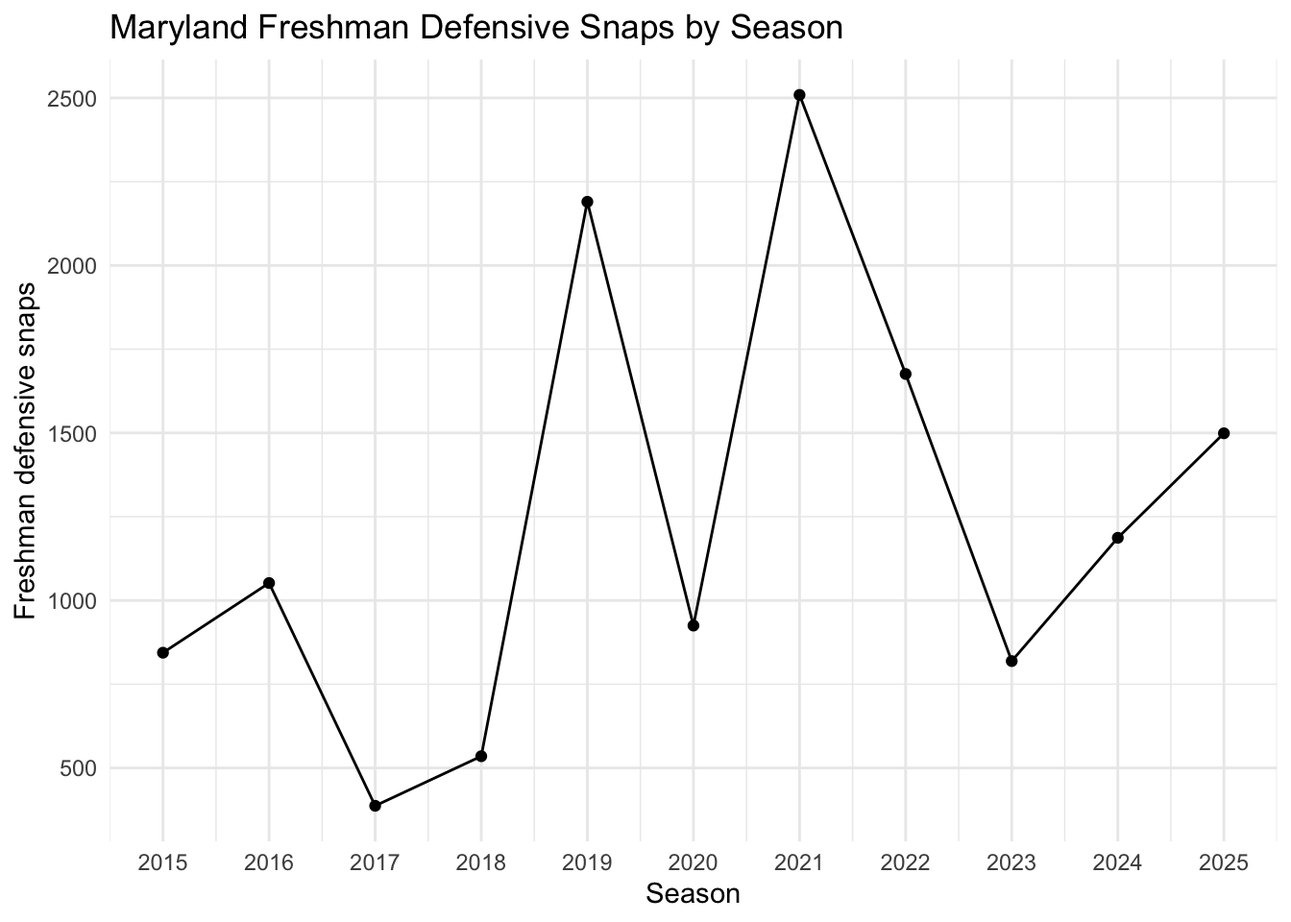
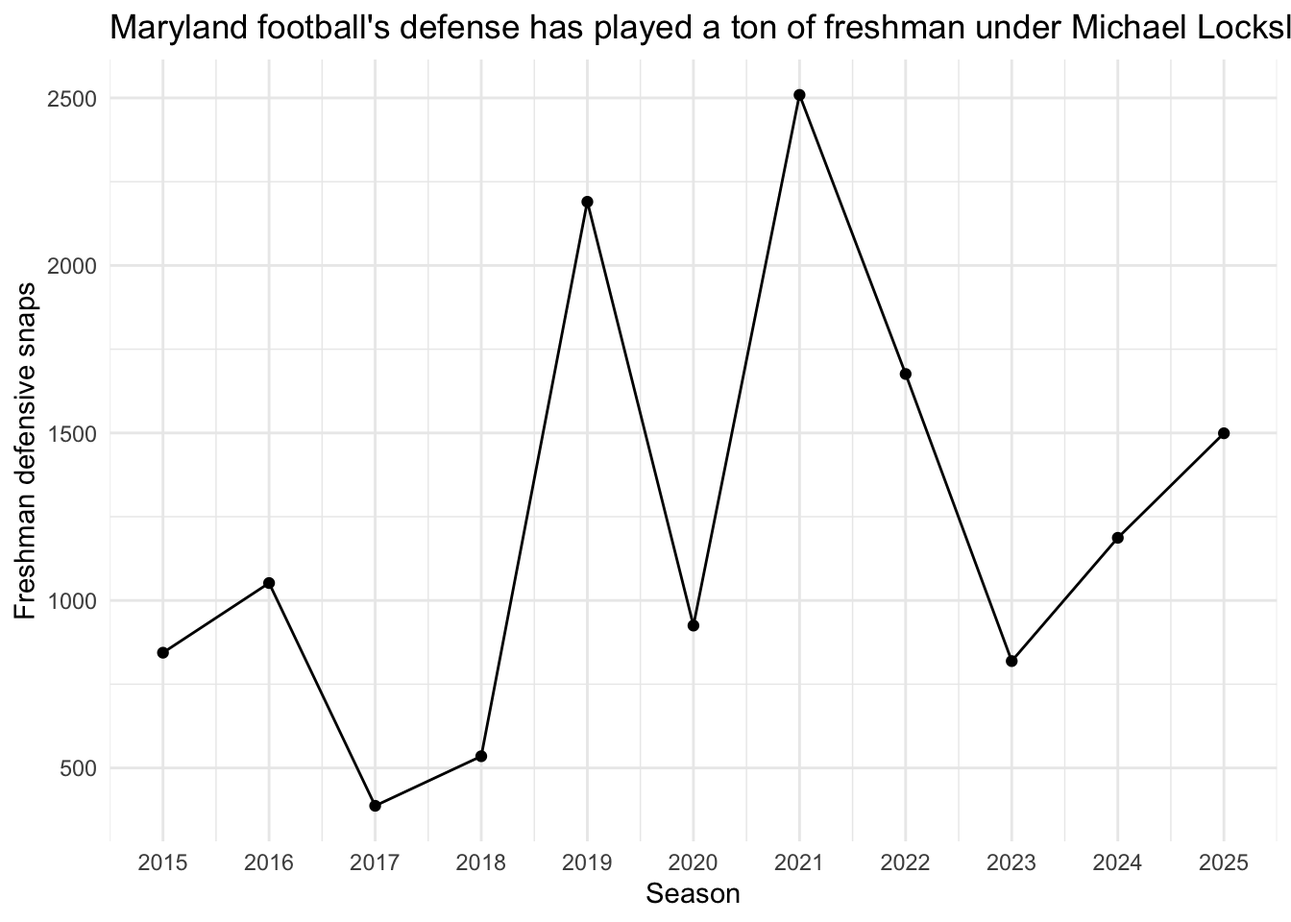
presentation

Changed region(s): [[0.1875, 0.0, 1.0, 0.0625]]

diff --git a/docs/posts/presentation/background2.html b/docs/posts/presentation/background2.html
@@ -345,13 +345,14 @@ dbl (54): targets, interception_touchdowns, draft_season, forced_fumbles, mi...
 <span id="cb21-8"><a href="#cb21-8" aria-hidden="true" tabindex="-1"></a>  <span class="at">.groups =</span> <span class="st">"drop"</span></span>
 <span id="cb21-9"><a href="#cb21-9" aria-hidden="true" tabindex="-1"></a>)</span></code></pre></div><button title="Copy to Clipboard" class="code-copy-button"><i class="bi"></i></button></div>
 </div>
+<p>##Maryland’s typically a young defense. But since Michael Locksley’s took over, there’s been a drastic shift over year-to-year of wherether the Terps are playing freshman or not. They’ve played a ton in some years (2019,2021 and 2025) and barely played some in other years. I think this just shows the overall instablity during the Locksley tenure. There’s just a lack of cohesion and overall plan on how many freshman they’re going to play. They’ve tried to be more veteran heavy in recent years, as you can see, but then this season, they relied on a ton of freshman this year. Sidney Stewart, Zahir Mathis and Messiah Dellhome all played signifcant snaps and were expected to be the best players on the defense.</p>
 <div class="cell">
 <div class="code-copy-outer-scaffold"><div class="sourceCode cell-code" id="cb22"><pre class="sourceCode r code-with-copy"><code class="sourceCode r"><span id="cb22-1"><a href="#cb22-1" aria-hidden="true" tabindex="-1"></a><span class="fu">ggplot</span>(md_freshman_by_year, <span class="fu">aes</span>(<span class="at">x =</span> season_year, <span class="at">y =</span> freshman_snaps)) <span class="sc">+</span></span>
 <span id="cb22-2"><a href="#cb22-2" aria-hidden="true" tabindex="-1"></a>  <span class="fu">geom_line</span>() <span class="sc">+</span></span>
 <span id="cb22-3"><a href="#cb22-3" aria-hidden="true" tabindex="-1"></a>  <span class="fu">geom_point</span>() <span class="sc">+</span></span>
 <span id="cb22-4"><a href="#cb22-4" aria-hidden="true" tabindex="-1"></a>  <span class="fu">scale_x_continuous</span>(<span class="at">breaks =</span> <span class="dv">2015</span><span class="sc">:</span><span class="dv">2025</span>) <span class="sc">+</span></span>
 <span id="cb22-5"><a href="#cb22-5" aria-hidden="true" tabindex="-1"></a>  <span class="fu">labs</span>(</span>
-<span id="cb22-6"><a href="#cb22-6" aria-hidden="true" tabindex="-1"></a>    <span class="at">title =</span> <span class="st">"Maryland Freshman Defensive Snaps by Season"</span>,</span>
+<span id="cb22-6"><a href="#cb22-6" aria-hidden="true" tabindex="-1"></a>    <span class="at">title =</span> <span class="st">"Maryland football's defense has played a ton of freshman under Michael Locksley"</span>,</span>
 <span id="cb22-7"><a href="#cb22-7" aria-hidden="true" tabindex="-1"></a>    <span class="at">x =</span> <span class="st">"Season"</span>,</span>
 <span id="cb22-8"><a href="#cb22-8" aria-hidden="true" tabindex="-1"></a>    <span class="at">y =</span> <span class="st">"Freshman defensive snaps"</span></span>
 <span id="cb22-9"><a href="#cb22-9" aria-hidden="true" tabindex="-1"></a>  ) <span class="sc">+</span></span>
@@ -364,8 +365,9 @@ dbl (54): targets, interception_touchdowns, draft_season, forced_fumbles, mi...
 </div>
 </div>
 </div>
-<p>##The biggest issue I’m going to have trying to find a comparison point. I don’t really want to do this for every Big Ten team, so I think I’d just have to find one team that I could maybe stack MD up against. So that’ll be someting I can talk over with you Derek</p>
-<p>###One thing I decided I’m going to do is use articles to find who some of the youngest defenses are over the past decade in college football and scrape their data from PFF to compare them. That way we can see how the Terps stack up compared to other college football teams who have been really young over the years.</p>
+<section id="section" class="level2">
+<h2 class="anchored" data-anchor-id="section"></h2>
+</section>
 <section id="a-viz-i-have-is-looking-at-a-line-chart-but-i-also-think-a-waffle-chart-could-be-really-good-to-show-the-total-number-of-freshman-snaps-weve-played-over-the-past-decade-and-then-see-which-seasons-have-made-up-the-most-of-them.-struggling-for-the-waffle-chart-tried-putting-into-ai-for-help-but-it-wasnt-working" class="level2">
 <h2 class="anchored" data-anchor-id="a-viz-i-have-is-looking-at-a-line-chart-but-i-also-think-a-waffle-chart-could-be-really-good-to-show-the-total-number-of-freshman-snaps-weve-played-over-the-past-decade-and-then-see-which-seasons-have-made-up-the-most-of-them.-struggling-for-the-waffle-chart-tried-putting-into-ai-for-help-but-it-wasnt-working">A viz I have is looking at a line chart, but I also think a waffle chart could be really good to show the total number of freshman snaps we’ve played over the past decade and then see which seasons have made up the most of them. Struggling for the waffle chart, tried putting into AI for help, but it wasn’t working</h2>
 <div class="cell">
@@ -392,6 +394,229 @@ dbl (54): targets, interception_touchdowns, draft_season, forced_fumbles, mi...
 </div>
 </div>
 </div>
+<div class="cell">
+<div class="code-copy-outer-scaffold"><div class="sourceCode cell-code" id="cb25"><pre class="sourceCode r code-with-copy"><code class="sourceCode r"><span id="cb25-1"><a href="#cb25-1" aria-hidden="true" tabindex="-1"></a>files <span class="ot">&lt;-</span> <span class="fu">c</span>(</span>
+<span id="cb25-2"><a href="#cb25-2" aria-hidden="true" tabindex="-1"></a>  <span class="st">"bostoncollege2015.csv"</span>, <span class="st">"alabama2016.csv"</span>, <span class="st">"alabama2017.csv"</span>,</span>
+<span id="cb25-3"><a href="#cb25-3" aria-hidden="true" tabindex="-1"></a>  <span class="st">"missst2018.csv"</span>, <span class="st">"osu2019.csv"</span>, <span class="st">"marshall2020.csv"</span>,</span>
+<span id="cb25-4"><a href="#cb25-4" aria-hidden="true" tabindex="-1"></a>  <span class="st">"wisconsin2021.csv"</span>, <span class="st">"airforce2022.csv"</span>, <span class="st">"michigan2023.csv"</span>,</span>
+<span id="cb25-5"><a href="#cb25-5" aria-hidden="true" tabindex="-1"></a>  <span class="st">"indiana2024.csv"</span>, <span class="st">"osu2025.csv"</span></span>
+<span id="cb25-6"><a href="#cb25-6" aria-hidden="true" tabindex="-1"></a>)</span>
+<span id="cb25-7"><a href="#cb25-7" aria-hidden="true" tabindex="-1"></a></span>
+<span id="cb25-8"><a href="#cb25-8" aria-hidden="true" tabindex="-1"></a><span class="fu">library</span>(tidyverse)</span>
+<span id="cb25-9"><a href="#cb25-9" aria-hidden="true" tabindex="-1"></a></span>
+<span id="cb25-10"><a href="#cb25-10" aria-hidden="true" tabindex="-1"></a><span class="cf">for</span> (f <span class="cf">in</span> files) {</span>
+<span id="cb25-11"><a href="#cb25-11" aria-hidden="true" tabindex="-1"></a>  name <span class="ot">&lt;-</span> tools<span class="sc">::</span><span class="fu">file_path_sans_ext</span>(f)</span>
+<span id="cb25-12"><a href="#cb25-12" aria-hidden="true" tabindex="-1"></a>  <span class="fu">assign</span>(name, <span class="fu">read_csv</span>(f))</span>
+<span id="cb25-13"><a href="#cb25-13" aria-hidden="true" tabindex="-1"></a>}</span></code></pre></div><button title="Copy to Clipboard" class="code-copy-button"><i class="bi"></i></button></div>
+<div class="cell-output cell-output-stderr">
+<pre><code>Rows: 34 Columns: 59
+── Column specification ────────────────────────────────────────────────────────
+Delimiter: ","
+chr  (5): team_name, jersey_number, team, position, player
+dbl (54): targets, interception_touchdowns, draft_season, forced_fumbles, mi...
+
+ℹ Use `spec()` to retrieve the full column specification for this data.
+ℹ Specify the column types or set `show_col_types = FALSE` to quiet this message.
+Rows: 41 Columns: 59
+── Column specification ────────────────────────────────────────────────────────
+Delimiter: ","
+chr  (5): team_name, jersey_number, team, position, player
+dbl (54): targets, interception_touchdowns, draft_season, forced_fumbles, mi...
+
+ℹ Use `spec()` to retrieve the full column specification for this data.
+ℹ Specify the column types or set `show_col_types = FALSE` to quiet this message.
+Rows: 44 Columns: 59
+── Column specification ────────────────────────────────────────────────────────
+Delimiter: ","
+chr  (5): team_name, jersey_number, team, position, player
+dbl (54): targets, interception_touchdowns, draft_season, forced_fumbles, mi...
+
+ℹ Use `spec()` to retrieve the full column specification for this data.
+ℹ Specify the column types or set `show_col_types = FALSE` to quiet this message.
+Rows: 50 Columns: 59
+── Column specification ────────────────────────────────────────────────────────
+Delimiter: ","
+chr  (5): team_name, jersey_number, team, position, player
+dbl (54): targets, interception_touchdowns, draft_season, forced_fumbles, mi...
+
+ℹ Use `spec()` to retrieve the full column specification for this data.
+ℹ Specify the column types or set `show_col_types = FALSE` to quiet this message.
+Rows: 57 Columns: 59
+── Column specification ────────────────────────────────────────────────────────
+Delimiter: ","
+chr  (5): team_name, jersey_number, team, position, player
+dbl (54): targets, interception_touchdowns, draft_season, forced_fumbles, mi...
+
+ℹ Use `spec()` to retrieve the full column specification for this data.
+ℹ Specify the column types or set `show_col_types = FALSE` to quiet this message.
+Rows: 32 Columns: 59
+── Column specification ────────────────────────────────────────────────────────
+Delimiter: ","
+chr  (5): team_name, jersey_number, team, position, player
+dbl (54): targets, interception_touchdowns, draft_season, forced_fumbles, mi...
+
+ℹ Use `spec()` to retrieve the full column specification for this data.
+ℹ Specify the column types or set `show_col_types = FALSE` to quiet this message.
+Rows: 37 Columns: 59
+── Column specification ────────────────────────────────────────────────────────
+Delimiter: ","
+chr  (5): team_name, jersey_number, team, position, player
+dbl (54): targets, interception_touchdowns, draft_season, forced_fumbles, mi...
+
+ℹ Use `spec()` to retrieve the full column specification for this data.
+ℹ Specify the column types or set `show_col_types = FALSE` to quiet this message.
+Rows: 41 Columns: 59
+── Column specification ────────────────────────────────────────────────────────
+Delimiter: ","
+chr  (5): team_name, jersey_number, team, position, player
+dbl (54): targets, interception_touchdowns, draft_season, forced_fumbles, mi...
+
+ℹ Use `spec()` to retrieve the full column specification for this data.
+ℹ Specify the column types or set `show_col_types = FALSE` to quiet this message.
+Rows: 44 Columns: 59
+── Column specification ────────────────────────────────────────────────────────
+Delimiter: ","
+chr  (5): team_name, jersey_number, team, position, player
+dbl (54): targets, interception_touchdowns, draft_season, forced_fumbles, mi...
+
+ℹ Use `spec()` to retrieve the full column specification for this data.
+ℹ Specify the column types or set `show_col_types = FALSE` to quiet this message.
+Rows: 40 Columns: 59
+── Column specification ────────────────────────────────────────────────────────
+Delimiter: ","
+chr  (5): team_name, jersey_number, team, position, player
+dbl (54): targets, interception_touchdowns, draft_season, forced_fumbles, mi...
+
+ℹ Use `spec()` to retrieve the full column specification for this data.
+ℹ Specify the column types or set `show_col_types = FALSE` to quiet this message.
+Rows: 41 Columns: 59
+── Column specification ────────────────────────────────────────────────────────
+Delimiter: ","
+chr  (5): team_name, jersey_number, team, position, player
+dbl (53): targets, interception_touchdowns, forced_fumbles, missed_tackles, ...
+lgl  (1): draft_season
+
+ℹ Use `spec()` to retrieve the full column specification for this data.
+ℹ Specify the column types or set `show_col_types = FALSE` to quiet this message.</code></pre>
+</div>
+</div>
+<div class="cell">
+<div class="code-copy-outer-scaffold"><div class="sourceCode cell-code" id="cb27"><pre class="sourceCode r code-with-copy"><code class="sourceCode r"><span id="cb27-1"><a href="#cb27-1" aria-hidden="true" tabindex="-1"></a>bostoncollege2015 <span class="ot">&lt;-</span> bostoncollege2015 <span class="sc">|&gt;</span></span>
+<span id="cb27-2"><a href="#cb27-2" aria-hidden="true" tabindex="-1"></a>  <span class="fu">filter</span>(eligible_season <span class="sc">==</span> <span class="dv">2019</span>)</span></code></pre></div><button title="Copy to Clipboard" class="code-copy-button"><i class="bi"></i></button></div>
+</div>
+<div class="cell">
+<div class="code-copy-outer-scaffold"><div class="sourceCode cell-code" id="cb28"><pre class="sourceCode r code-with-copy"><code class="sourceCode r"><span id="cb28-1"><a href="#cb28-1" aria-hidden="true" tabindex="-1"></a>alabama2016 <span class="ot">&lt;-</span> alabama2016 <span class="sc">|&gt;</span></span>
+<span id="cb28-2"><a href="#cb28-2" aria-hidden="true" tabindex="-1"></a>  <span class="fu">filter</span>(eligible_season <span class="sc">==</span> <span class="dv">2020</span>)</span></code></pre></div><button title="Copy to Clipboard" class="code-copy-button"><i class="bi"></i></button></div>
+</div>
+<div class="cell">
+<div class="code-copy-outer-scaffold"><div class="sourceCode cell-code" id="cb29"><pre class="sourceCode r code-with-copy"><code class="sourceCode r"><span id="cb29-1"><a href="#cb29-1" aria-hidden="true" tabindex="-1"></a>alabama2017 <span class="ot">&lt;-</span> alabama2017 <span class="sc">|&gt;</span></span>
+<span id="cb29-2"><a href="#cb29-2" aria-hidden="true" tabindex="-1"></a>  <span class="fu">filter</span>(eligible_season <span class="sc">==</span> <span class="dv">2021</span>)</span></code></pre></div><button title="Copy to Clipboard" class="code-copy-button"><i class="bi"></i></button></div>
+</div>
+<div class="cell">
+<div class="code-copy-outer-scaffold"><div class="sourceCode cell-code" id="cb30"><pre class="sourceCode r code-with-copy"><code class="sourceCode r"><span id="cb30-1"><a href="#cb30-1" aria-hidden="true" tabindex="-1"></a>missst2018 <span class="ot">&lt;-</span> missst2018 <span class="sc">|&gt;</span></span>
+<span id="cb30-2"><a href="#cb30-2" aria-hidden="true" tabindex="-1"></a>  <span class="fu">filter</span>(eligible_season <span class="sc">==</span> <span class="dv">2022</span>)</span></code></pre></div><button title="Copy to Clipboard" class="code-copy-button"><i class="bi"></i></button></div>
+</div>
+<div class="cell">
+<div class="code-copy-outer-scaffold"><div class="sourceCode cell-code" id="cb31"><pre class="sourceCode r code-with-copy"><code class="sourceCode r"><span id="cb31-1"><a href="#cb31-1" aria-hidden="true" tabindex="-1"></a>osu2019 <span class="ot">&lt;-</span> osu2019 <span class="sc">|&gt;</span></span>
+<span id="cb31-2"><a href="#cb31-2" aria-hidden="true" tabindex="-1"></a>  <span class="fu">filter</span>(eligible_season <span class="sc">==</span> <span class="dv">2023</span>)</span></code></pre></div><button title="Copy to Clipboard" class="code-copy-button"><i class="bi"></i></button></div>
+</div>
+<div class="cell">
+<div class="code-copy-outer-scaffold"><div class="sourceCode cell-code" id="cb32"><pre class="sourceCode r code-with-copy"><code class="sourceCode r"><span id="cb32-1"><a href="#cb32-1" aria-hidden="true" tabindex="-1"></a>marshall2020 <span class="ot">&lt;-</span> marshall2020 <span class="sc">|&gt;</span></span>
+<span id="cb32-2"><a href="#cb32-2" aria-hidden="true" tabindex="-1"></a>  <span class="fu">filter</span>(eligible_season <span class="sc">==</span> <span class="dv">2024</span>)</span></code></pre></div><button title="Copy to Clipboard" class="code-copy-button"><i class="bi"></i></button></div>
+</div>
+<div class="cell">
+<div class="code-copy-outer-scaffold"><div class="sourceCode cell-code" id="cb33"><pre class="sourceCode r code-with-copy"><code class="sourceCode r"><span id="cb33-1"><a href="#cb33-1" aria-hidden="true" tabindex="-1"></a>wisconsin2021 <span class="ot">&lt;-</span> wisconsin2021 <span class="sc">|&gt;</span></span>
+<span id="cb33-2"><a href="#cb33-2" aria-hidden="true" tabindex="-1"></a>  <span class="fu">filter</span>(eligible_season <span class="sc">==</span> <span class="dv">2025</span>)</span></code></pre></div><button title="Copy to Clipboard" class="code-copy-button"><i class="bi"></i></button></div>
+</div>
+<div class="cell">
+<div class="code-copy-outer-scaffold"><div class="sourceCode cell-code" id="cb34"><pre class="sourceCode r code-with-copy"><code class="sourceCode r"><span id="cb34-1"><a href="#cb34-1" aria-hidden="true" tabindex="-1"></a>airforce2022 <span class="ot">&lt;-</span> airforce2022 <span class="sc">|&gt;</span></span>
+<span id="cb34-2"><a href="#cb34-2" aria-hidden="true" tabindex="-1"></a>  <span class="fu">filter</span>(eligible_season <span class="sc">==</span> <span class="dv">2026</span>)</span></code></pre></div><button title="Copy to Clipboard" class="code-copy-button"><i class="bi"></i></button></div>
+</div>
+<div class="cell">
+<div class="code-copy-outer-scaffold"><div class="sourceCode cell-code" id="cb35"><pre class="sourceCode r code-with-copy"><code class="sourceCode r"><span id="cb35-1"><a href="#cb35-1" aria-hidden="true" tabindex="-1"></a>michigan2023 <span class="ot">&lt;-</span> michigan2023 <span class="sc">|&gt;</span></span>
+<span id="cb35-2"><a href="#cb35-2" aria-hidden="true" tabindex="-1"></a>  <span class="fu">filter</span>(eligible_season <span class="sc">==</span> <span class="dv">2027</span>)</span></code></pre></div><button title="Copy to Clipboard" class="code-copy-button"><i class="bi"></i></button></div>
+</div>
+<div class="cell">
+<div class="code-copy-outer-scaffold"><div class="sourceCode cell-code" id="cb36"><pre class="sourceCode r code-with-copy"><code class="sourceCode r"><span id="cb36-1"><a href="#cb36-1" aria-hidden="true" tabindex="-1"></a>indiana2024 <span class="ot">&lt;-</span> indiana2024 <span class="sc">|&gt;</span></span>
+<span id="cb36-2"><a href="#cb36-2" aria-hidden="true" tabindex="-1"></a>  <span class="fu">filter</span>(eligible_season <span class="sc">==</span> <span class="dv">2028</span>)</span></code></pre></div><button title="Copy to Clipboard" class="code-copy-button"><i class="bi"></i></button></div>
+</div>
+<div class="cell">
+<div class="code-copy-outer-scaffold"><div class="sourceCode cell-code" id="cb37"><pre class="sourceCode r code-with-copy"><code class="sourceCode r"><span id="cb37-1"><a href="#cb37-1" aria-hidden="true" tabindex="-1"></a>osu2025 <span class="ot">&lt;-</span> osu2025 <span class="sc">|&gt;</span></span>
+<span id="cb37-2"><a href="#cb37-2" aria-hidden="true" tabindex="-1"></a>  <span class="fu">filter</span>(eligible_season <span class="sc">==</span> <span class="dv">2029</span>)</span></code></pre></div><button title="Copy to Clipboard" class="code-copy-button"><i class="bi"></i></button></div>
+</div>
+<div class="cell">
+<div class="code-copy-outer-scaffold"><div class="sourceCode cell-code" id="cb38"><pre class="sourceCode r code-with-copy"><code class="sourceCode r"><span id="cb38-1"><a href="#cb38-1" aria-hidden="true" tabindex="-1"></a><span class="fu">library</span>(dplyr)</span>
+<span id="cb38-2"><a href="#cb38-2" aria-hidden="true" tabindex="-1"></a><span class="fu">library</span>(ggplot2)</span>
+<span id="cb38-3"><a href="#cb38-3" aria-hidden="true" tabindex="-1"></a><span class="fu">library</span>(tibble)</span>
+<span id="cb38-4"><a href="#cb38-4" aria-hidden="true" tabindex="-1"></a></span>
+<span id="cb38-5"><a href="#cb38-5" aria-hidden="true" tabindex="-1"></a><span class="co"># Years and corresponding opponents</span></span>
+<span id="cb38-6"><a href="#cb38-6" aria-hidden="true" tabindex="-1"></a>years <span class="ot">&lt;-</span> <span class="dv">2015</span><span class="sc">:</span><span class="dv">2025</span></span>
+<span id="cb38-7"><a href="#cb38-7" aria-hidden="true" tabindex="-1"></a>opponents <span class="ot">&lt;-</span> <span class="fu">c</span>(</span>
+<span id="cb38-8"><a href="#cb38-8" aria-hidden="true" tabindex="-1"></a>  <span class="st">"bostoncollege"</span>,  <span class="co"># 2015</span></span>
+<span id="cb38-9"><a href="#cb38-9" aria-hidden="true" tabindex="-1"></a>  <span class="st">"alabama"</span>,        <span class="co"># 2016</span></span>
+<span id="cb38-10"><a href="#cb38-10" aria-hidden="true" tabindex="-1"></a>  <span class="st">"alabama"</span>,        <span class="co"># 2017</span></span>
+<span id="cb38-11"><a href="#cb38-11" aria-hidden="true" tabindex="-1"></a>  <span class="st">"missst"</span>,         <span class="co"># 2018</span></span>
+<span id="cb38-12"><a href="#cb38-12" aria-hidden="true" tabindex="-1"></a>  <span class="st">"osu"</span>,            <span class="co"># 2019</span></span>
+<span id="cb38-13"><a href="#cb38-13" aria-hidden="true" tabindex="-1"></a>  <span class="st">"marshall"</span>,       <span class="co"># 2020</span></span>
+<span id="cb38-14"><a href="#cb38-14" aria-hidden="true" tabindex="-1"></a>  <span class="st">"wisconsin"</span>,      <span class="co"># 2021</span></span>
+<span id="cb38-15"><a href="#cb38-15" aria-hidden="true" tabindex="-1"></a>  <span class="st">"airforce"</span>,       <span class="co"># 2022</span></span>
+<span id="cb38-16"><a href="#cb38-16" aria-hidden="true" tabindex="-1"></a>  <span class="st">"michigan"</span>,       <span class="co"># 2023</span></span>
+<span id="cb38-17"><a href="#cb38-17" aria-hidden="true" tabindex="-1"></a>  <span class="st">"indiana"</span>,        <span class="co"># 2024</span></span>
+<span id="cb38-18"><a href="#cb38-18" aria-hidden="true" tabindex="-1"></a>  <span class="st">"osu"</span>             <span class="co"># 2025</span></span>
+<span id="cb38-19"><a href="#cb38-19" aria-hidden="true" tabindex="-1"></a>)</span>
+<span id="cb38-20"><a href="#cb38-20" aria-hidden="true" tabindex="-1"></a></span>
+<span id="cb38-21"><a href="#cb38-21" aria-hidden="true" tabindex="-1"></a>summary_list <span class="ot">&lt;-</span> <span class="fu">list</span>()</span>
+<span id="cb38-22"><a href="#cb38-22" aria-hidden="true" tabindex="-1"></a></span>
+<span id="cb38-23"><a href="#cb38-23" aria-hidden="true" tabindex="-1"></a><span class="cf">for</span> (i <span class="cf">in</span> <span class="fu">seq_along</span>(years)) {</span>
+<span id="cb38-24"><a href="#cb38-24" aria-hidden="true" tabindex="-1"></a>  y   <span class="ot">&lt;-</span> years[i]</span>
+<span id="cb38-25"><a href="#cb38-25" aria-hidden="true" tabindex="-1"></a>  opp <span class="ot">&lt;-</span> opponents[i]</span>
+<span id="cb38-26"><a href="#cb38-26" aria-hidden="true" tabindex="-1"></a>  </span>
+<span id="cb38-27"><a href="#cb38-27" aria-hidden="true" tabindex="-1"></a>  md_df  <span class="ot">&lt;-</span> <span class="fu">get</span>(<span class="fu">paste0</span>(<span class="st">"md"</span>, y))</span>
+<span id="cb38-28"><a href="#cb38-28" aria-hidden="true" tabindex="-1"></a>  opp_df <span class="ot">&lt;-</span> <span class="fu">get</span>(<span class="fu">paste0</span>(opp, y))</span>
+<span id="cb38-29"><a href="#cb38-29" aria-hidden="true" tabindex="-1"></a>  </span>
+<span id="cb38-30"><a href="#cb38-30" aria-hidden="true" tabindex="-1"></a>  summary_list[[i]] <span class="ot">&lt;-</span> <span class="fu">tibble</span>(</span>
+<span id="cb38-31"><a href="#cb38-31" aria-hidden="true" tabindex="-1"></a>    <span class="at">year =</span> <span class="fu">factor</span>(y),</span>
+<span id="cb38-32"><a href="#cb38-32" aria-hidden="true" tabindex="-1"></a>    <span class="at">team =</span> <span class="fu">c</span>(<span class="st">"Maryland"</span>, opp),</span>
+<span id="cb38-33"><a href="#cb38-33" aria-hidden="true" tabindex="-1"></a>    <span class="at">value =</span> <span class="fu">c</span>(</span>
+<span id="cb38-34"><a href="#cb38-34" aria-hidden="true" tabindex="-1"></a>      <span class="fu">mean</span>(md_df<span class="sc">$</span>snap_counts_defense,  <span class="at">na.rm =</span> <span class="cn">TRUE</span>),</span>
+<span id="cb38-35"><a href="#cb38-35" aria-hidden="true" tabindex="-1"></a>      <span class="fu">mean</span>(opp_df<span class="sc">$</span>snap_counts_defense, <span class="at">na.rm =</span> <span class="cn">TRUE</span>)</span>
+<span id="cb38-36"><a href="#cb38-36" aria-hidden="true" tabindex="-1"></a>    )</span>
+<span id="cb38-37"><a href="#cb38-37" aria-hidden="true" tabindex="-1"></a>  )</span>
+<span id="cb38-38"><a href="#cb38-38" aria-hidden="true" tabindex="-1"></a>}</span>
+<span id="cb38-39"><a href="#cb38-39" aria-hidden="true" tabindex="-1"></a></span>
+<span id="cb38-40"><a href="#cb38-40" aria-hidden="true" tabindex="-1"></a>summary <span class="ot">&lt;-</span> <span class="fu">bind_rows</span>(summary_list)</span>
+<span id="cb38-41"><a href="#cb38-41" aria-hidden="true" tabindex="-1"></a></span>
+<span id="cb38-42"><a href="#cb38-42" aria-hidden="true" tabindex="-1"></a><span class="co"># Set custom colors: Maryland red, all others gray</span></span>
+<span id="cb38-43"><a href="#cb38-43" aria-hidden="true" tabindex="-1"></a>summary<span class="sc">$</span>color <span class="ot">&lt;-</span> <span class="fu">ifelse</span>(summary<span class="sc">$</span>team <span class="sc">==</span> <span class="st">"Maryland"</span>, <span class="st">"Maryland"</span>, <span class="st">"Opponent"</span>)</span>
+<span id="cb38-44"><a href="#cb38-44" aria-hidden="true" tabindex="-1"></a></span>
+<span id="cb38-45"><a href="#cb38-45" aria-hidden="true" tabindex="-1"></a><span class="fu">ggplot</span>(summary, <span class="fu">aes</span>(<span class="at">x =</span> year, <span class="at">y =</span> value, <span class="at">fill =</span> color)) <span class="sc">+</span></span>
+<span id="cb38-46"><a href="#cb38-46" aria-hidden="true" tabindex="-1"></a>  <span class="fu">geom_col</span>(<span class="at">position =</span> <span class="fu">position_dodge</span>(<span class="at">width =</span> <span class="fl">0.8</span>), <span class="at">width =</span> <span class="fl">0.7</span>) <span class="sc">+</span></span>
+<span id="cb38-47"><a href="#cb38-47" aria-hidden="true" tabindex="-1"></a>  <span class="fu">scale_fill_manual</span>(</span>
+<span id="cb38-48"><a href="#cb38-48" aria-hidden="true" tabindex="-1"></a>    <span class="at">values =</span> <span class="fu">c</span>(</span>
+<span id="cb38-49"><a href="#cb38-49" aria-hidden="true" tabindex="-1"></a>      <span class="st">"Maryland"</span> <span class="ot">=</span> <span class="st">"red"</span>,</span>
+<span id="cb38-50"><a href="#cb38-50" aria-hidden="true" tabindex="-1"></a>      <span class="st">"Opponent"</span> <span class="ot">=</span> <span class="st">"gray80"</span></span>
+<span id="cb38-51"><a href="#cb38-51" aria-hidden="true" tabindex="-1"></a>    )</span>
+<span id="cb38-52"><a href="#cb38-52" aria-hidden="true" tabindex="-1"></a>  ) <span class="sc">+</span></span>
+<span id="cb38-53"><a href="#cb38-53" aria-hidden="true" tabindex="-1"></a>  <span class="fu">labs</span>(</span>
+<span id="cb38-54"><a href="#cb38-54" aria-hidden="true" tabindex="-1"></a>    <span class="at">x =</span> <span class="st">"Season"</span>,</span>
+<span id="cb38-55"><a href="#cb38-55" aria-hidden="true" tabindex="-1"></a>    <span class="at">y =</span> <span class="st">"Freshman Defensive Snap Count"</span>,</span>
+<span id="cb38-56"><a href="#cb38-56" aria-hidden="true" tabindex="-1"></a>    <span class="at">title =</span> <span class="st">"Maryland's defense typically plays way more freshman than the No. 1 defense in the country"</span>,</span>
+<span id="cb38-57"><a href="#cb38-57" aria-hidden="true" tabindex="-1"></a>    <span class="at">fill =</span> <span class="st">""</span></span>
+<span id="cb38-58"><a href="#cb38-58" aria-hidden="true" tabindex="-1"></a>  ) <span class="sc">+</span></span>
+<span id="cb38-59"><a href="#cb38-59" aria-hidden="true" tabindex="-1"></a>  <span class="fu">theme_minimal</span>() <span class="sc">+</span></span>
+<span id="cb38-60"><a href="#cb38-60" aria-hidden="true" tabindex="-1"></a>  <span class="fu">theme</span>(</span>
+<span id="cb38-61"><a href="#cb38-61" aria-hidden="true" tabindex="-1"></a>    <span class="at">legend.position =</span> <span class="st">"none"</span>,</span>
+<span id="cb38-62"><a href="#cb38-62" aria-hidden="true" tabindex="-1"></a>    <span class="at">axis.text.x =</span> <span class="fu">element_text</span>(<span class="at">angle =</span> <span class="dv">45</span>, <span class="at">hjust =</span> <span class="dv">1</span>)</span>
+<span id="cb38-63"><a href="#cb38-63" aria-hidden="true" tabindex="-1"></a>  )</span></code></pre></div><button title="Copy to Clipboard" class="code-copy-button"><i class="bi"></i></button></div>
+<div class="cell-output-display">
+<div>
+<figure class="figure">
+<p><img src="background2_files/figure-html/unnamed-chunk-32-1.png" class="img-fluid figure-img" width="672"></p>
+</figure>
+</div>
+</div>
+</div>
+<p>##But if Maryland wants to reach the level that its trying to achieve, it needs to either bring in more talented freshman, or get older. The Terps, compared to the No.&nbsp;1 defense in the nation over the years, played more freshman than that unit seven times since 2015. While some of these teams are substantially better than the Terps have been historically, it’s a good barometer to look too when considering how Maryland’s defense can get better. A number of those units, including Michigan, Ohio State and Indiana all came from the Big Ten.</p>
 
 
 </section>

diff --git a/docs/index.html b/docs/index.html
@@ -371,7 +371,7 @@ Progression is not always linear in sports. Plenty of times, you saw freshman wh
 </a>
 </div>
 </div>
-<div class="quarto-post image-right" data-index="8" data-listing-file-modified-sort="1764699829816" data-listing-reading-time-sort="2" data-listing-word-count-sort="395">
+<div class="quarto-post image-right" data-index="8" data-listing-file-modified-sort="1765143459533" data-listing-reading-time-sort="5" data-listing-word-count-sort="953">
 <div class="thumbnail"><a href="./posts/presentation/background2.html" class="no-external">
 
 <p class="card-img-top"><img src="posts/presentation/background2_files/figure-html/unnamed-chunk-18-1.png"  class="thumbnail-image card-img"/></p>
